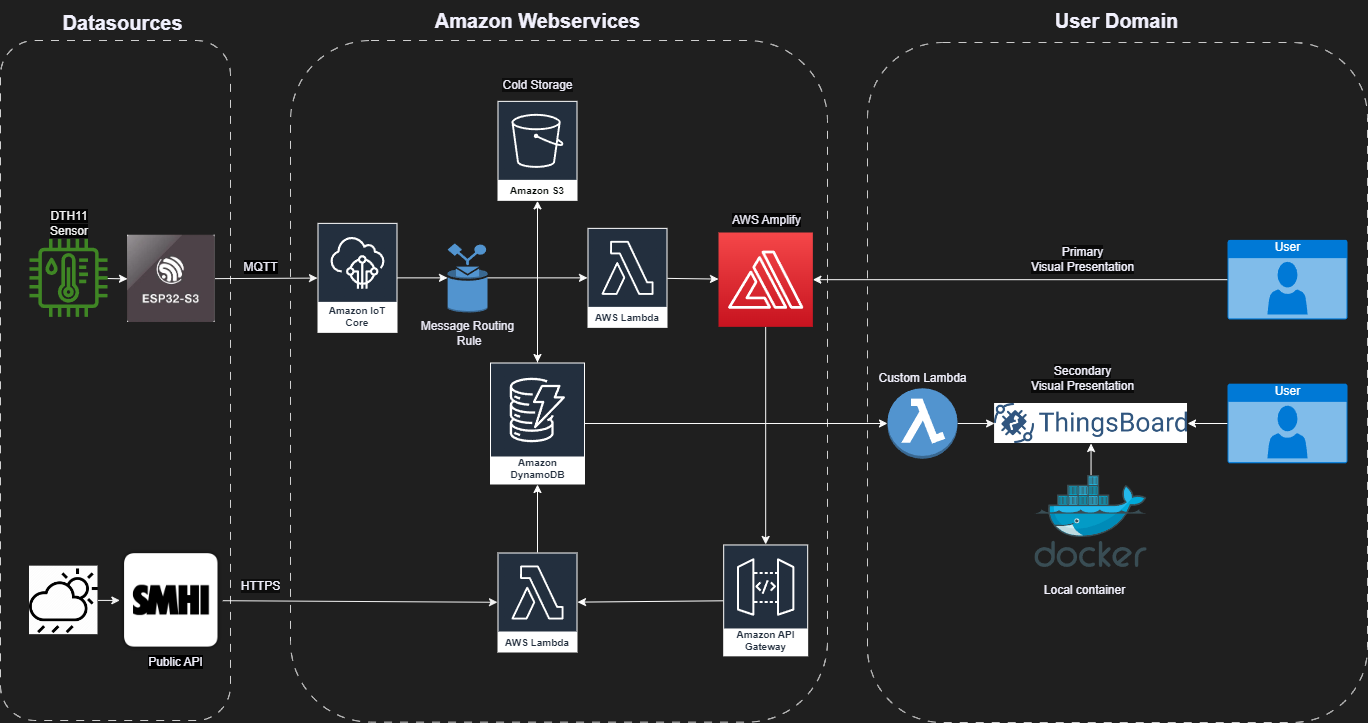
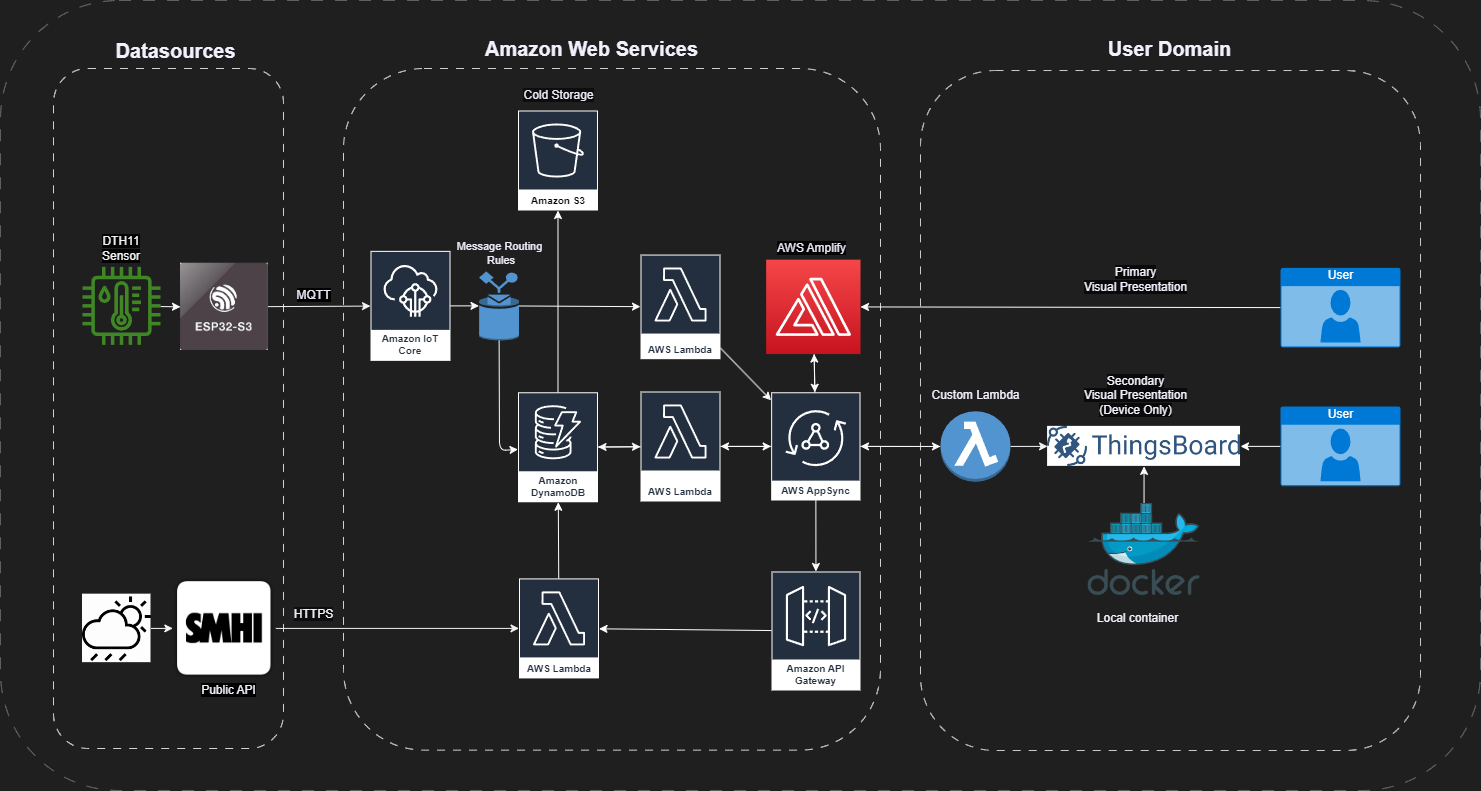
Started on Readme. Fixed flowchart.

diff --git a/README.md b/README.md
@@ -1,6 +1,91 @@
 # Cloud Sensor Integration
 
 ## Overview
-A sensor project utilizing AWS IoT for secure MQTT data transmission, with data visualization and presentation handled by ThingsBoard.  November 2024.
+A sensor project utilizing AWS IoT for secure MQTT data transmission, with data visualization and presentation handled by AWS Amplify and ThingsBoard. November 2024.
 
-![Application Screenshot](resources/Cloud_Sensor_Flowchart.png)
+This project demonstrates how an ESP32 device collects data from a DHT11 sensor, transmits it securely to AWS IoT Core, and makes the data accessible for visualization through two parallel systems:
+
+1. **AWS Amplify**: For real-time data monitoring and a primary user interface.
+2. **ThingsBoard**: For a secondary dashboard using a Dockerized local instance.
+
+The solution incorporates scalability, security best practices, and integrations with external APIs like the SMHI Weather API.
+
+## Flowchart
+![Application Flowchart](resources/Cloud_Sensor_Flowchart.png)
+
+## Hardware
+
+### Components:
+- **ESP32-S3 DevKit**: Main microcontroller for transmitting sensor data.
+- **DHT11 Sensor**: Captures temperature and humidity data.
+- Additional supporting components like resistors, wires, and a breadboard.
+
+### Connections:
+- The DHT11 sensor is connected to the ESP32, which reads and transmits the data over MQTT.
+
+## Software
+
+### Tools and Technologies:
+- **AWS IoT Core**: Handles MQTT communication and message routing.
+- **AWS Lambda**: Processes data for storage and API requests.
+- **Amazon DynamoDB**: Stores sensor data for long-term persistence.
+- **Amazon S3**: Used for any cold storage requirements.
+- **AWS Amplify**: Primary user-facing interface for data visualization.
+- **ThingsBoard**: A Dockerized instance for additional data visualization.
+- **SMHI Public API**: Provides external weather data.
+
+### Codebase:
+- ESP32 firmware written in C++ (Arduino framework) with MQTT and DHT11-sensor libraries.
+- Custom Lambda-function for polling AWS for Thingsboard is written in Javascript for DynamoDB integration.
+
+## Setup ESP32
+
+### Prerequisites:
+1. Install **PlatformIO** in Visual Studio Code.
+2. Clone this repository.
+3. Configure your Wi-Fi and MQTT broker settings in the ESP32 firmware.
+
+### Steps:
+1. Connect the DHT11 sensor to the ESP32 following the wiring diagram.
+2. Flash the firmware to the ESP32 using PlatformIO.
+3. Monitor the serial console to verify MQTT data transmission.
+
+## Setup AWS
+
+### Prerequisites:
+- An active AWS account.
+- Permissions to create IoT Core, Lambda, DynamoDB, and Amplify resources.
+
+### Steps:
+1. Set up **AWS IoT Core**:
+   - Create a thing, certificate, and policy.
+   - Configure an MQTT topic for the ESP32 to publish data.
+2. Create **AWS Lambda Functions**:
+   - One function to process incoming MQTT messages and store them in DynamoDB.
+   - Another function to fetch data from DynamoDB and format it for Amplify.
+3. Configure **Amazon DynamoDB**:
+   - Create a table to store sensor data.
+4. Set up **AWS Amplify**:
+   - Refer to the linked [Cloud Sensor Integration Frontend-Amplify repository](https://github.com/PBergstrom90/Cloud_Sensor_Integration_Frontend-Amplify).
+
+## Visualization AWS Amplify
+AWS Amplify is the primary visualization platform for this project. All the necessary setup files and instructions can be found in the dedicated repository:
+[Cloud Sensor Integration Frontend-Amplify](https://github.com/PBergstrom90/Cloud_Sensor_Integration_Frontend-Amplify)
+
+## Visualization ThingsBoard
+1. Set up a Docker container for ThingsBoard.
+2. Integrate the MQTT broker to visualize data locally.
+3. The necessary setup files for ThingsBoard are included in this repository.
+
+## Security
+Security is a top priority in this project:
+- MQTT communication is secured with TLS certificates.
+- AWS IAM policies are used to restrict access to resources, and only grant relevant access when needed.
+- Secrets and keys are managed securely in AWS through automatically generated certificates.
+- Amplify and ThingsBoard have role-based access controls to prevent unauthorized access.
+
+## Scalability and Future Improvements
+- **Multi-sensor support**: Adding more sensor types to the ESP32.
+- **Edge computing**: Preprocessing data on the ESP32.
+- **Enhanced analytics**: Leveraging AWS QuickSight for data insights.
+- **Global deployment**: Using AWS CDK for infrastructure as code.
